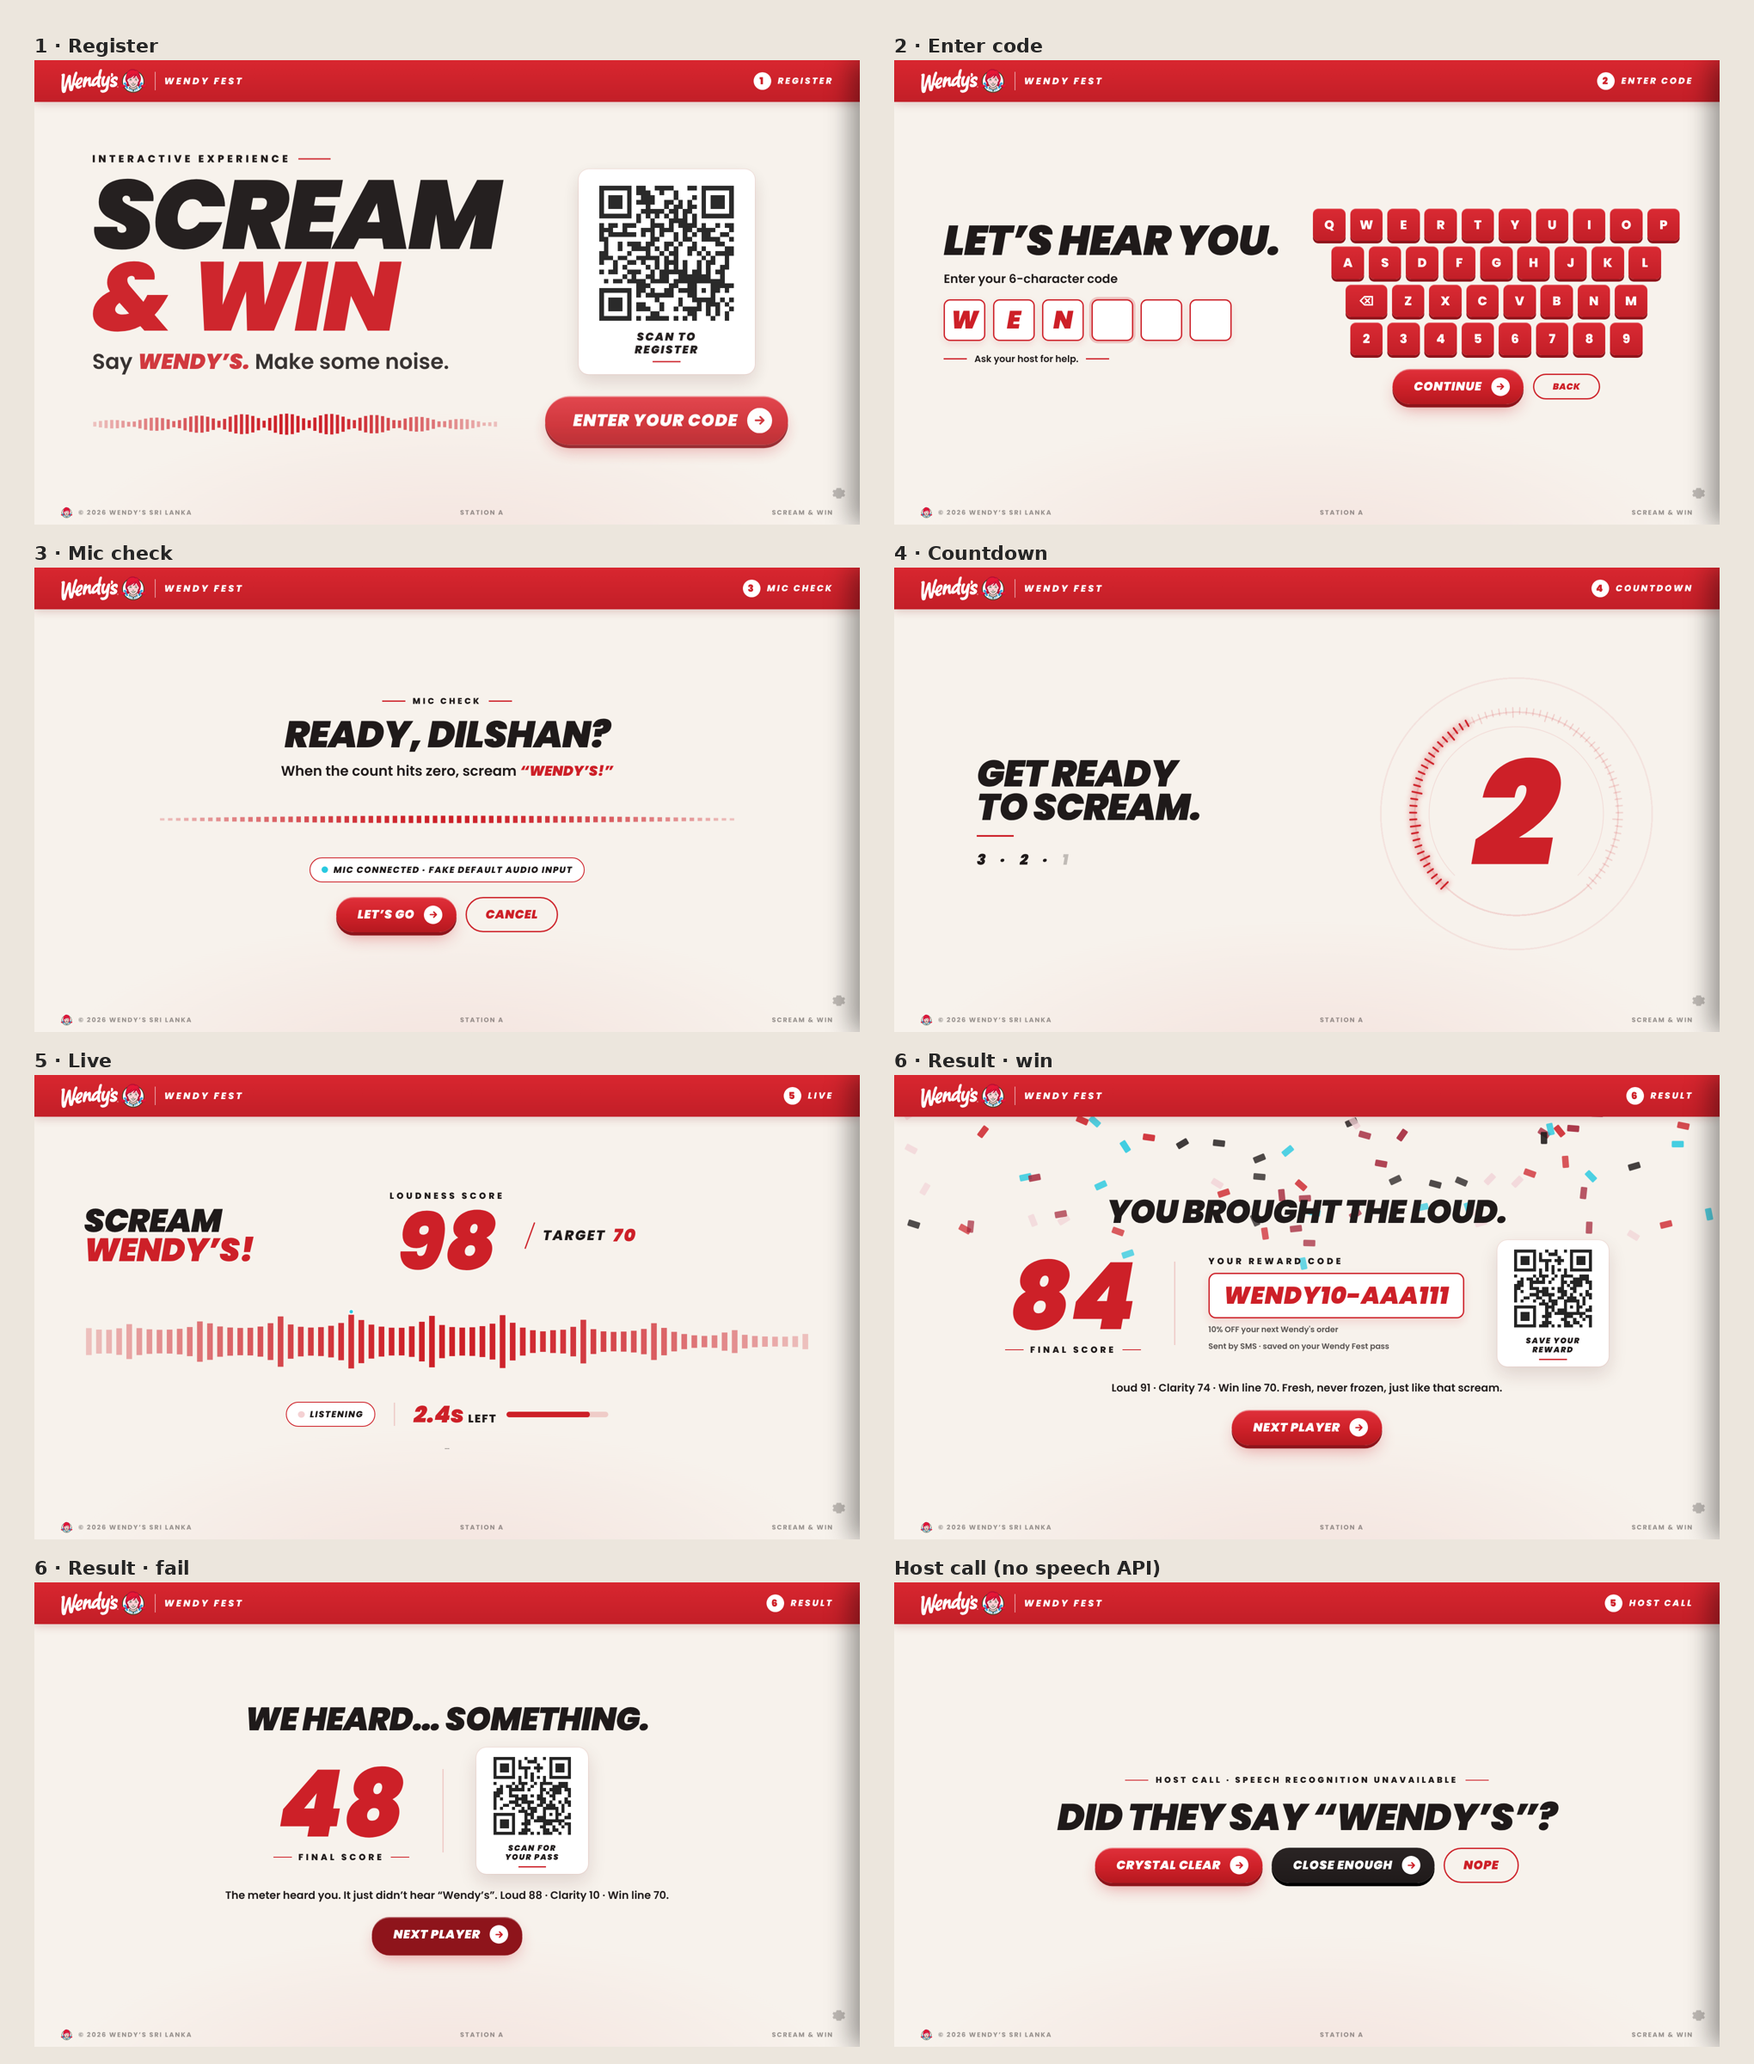
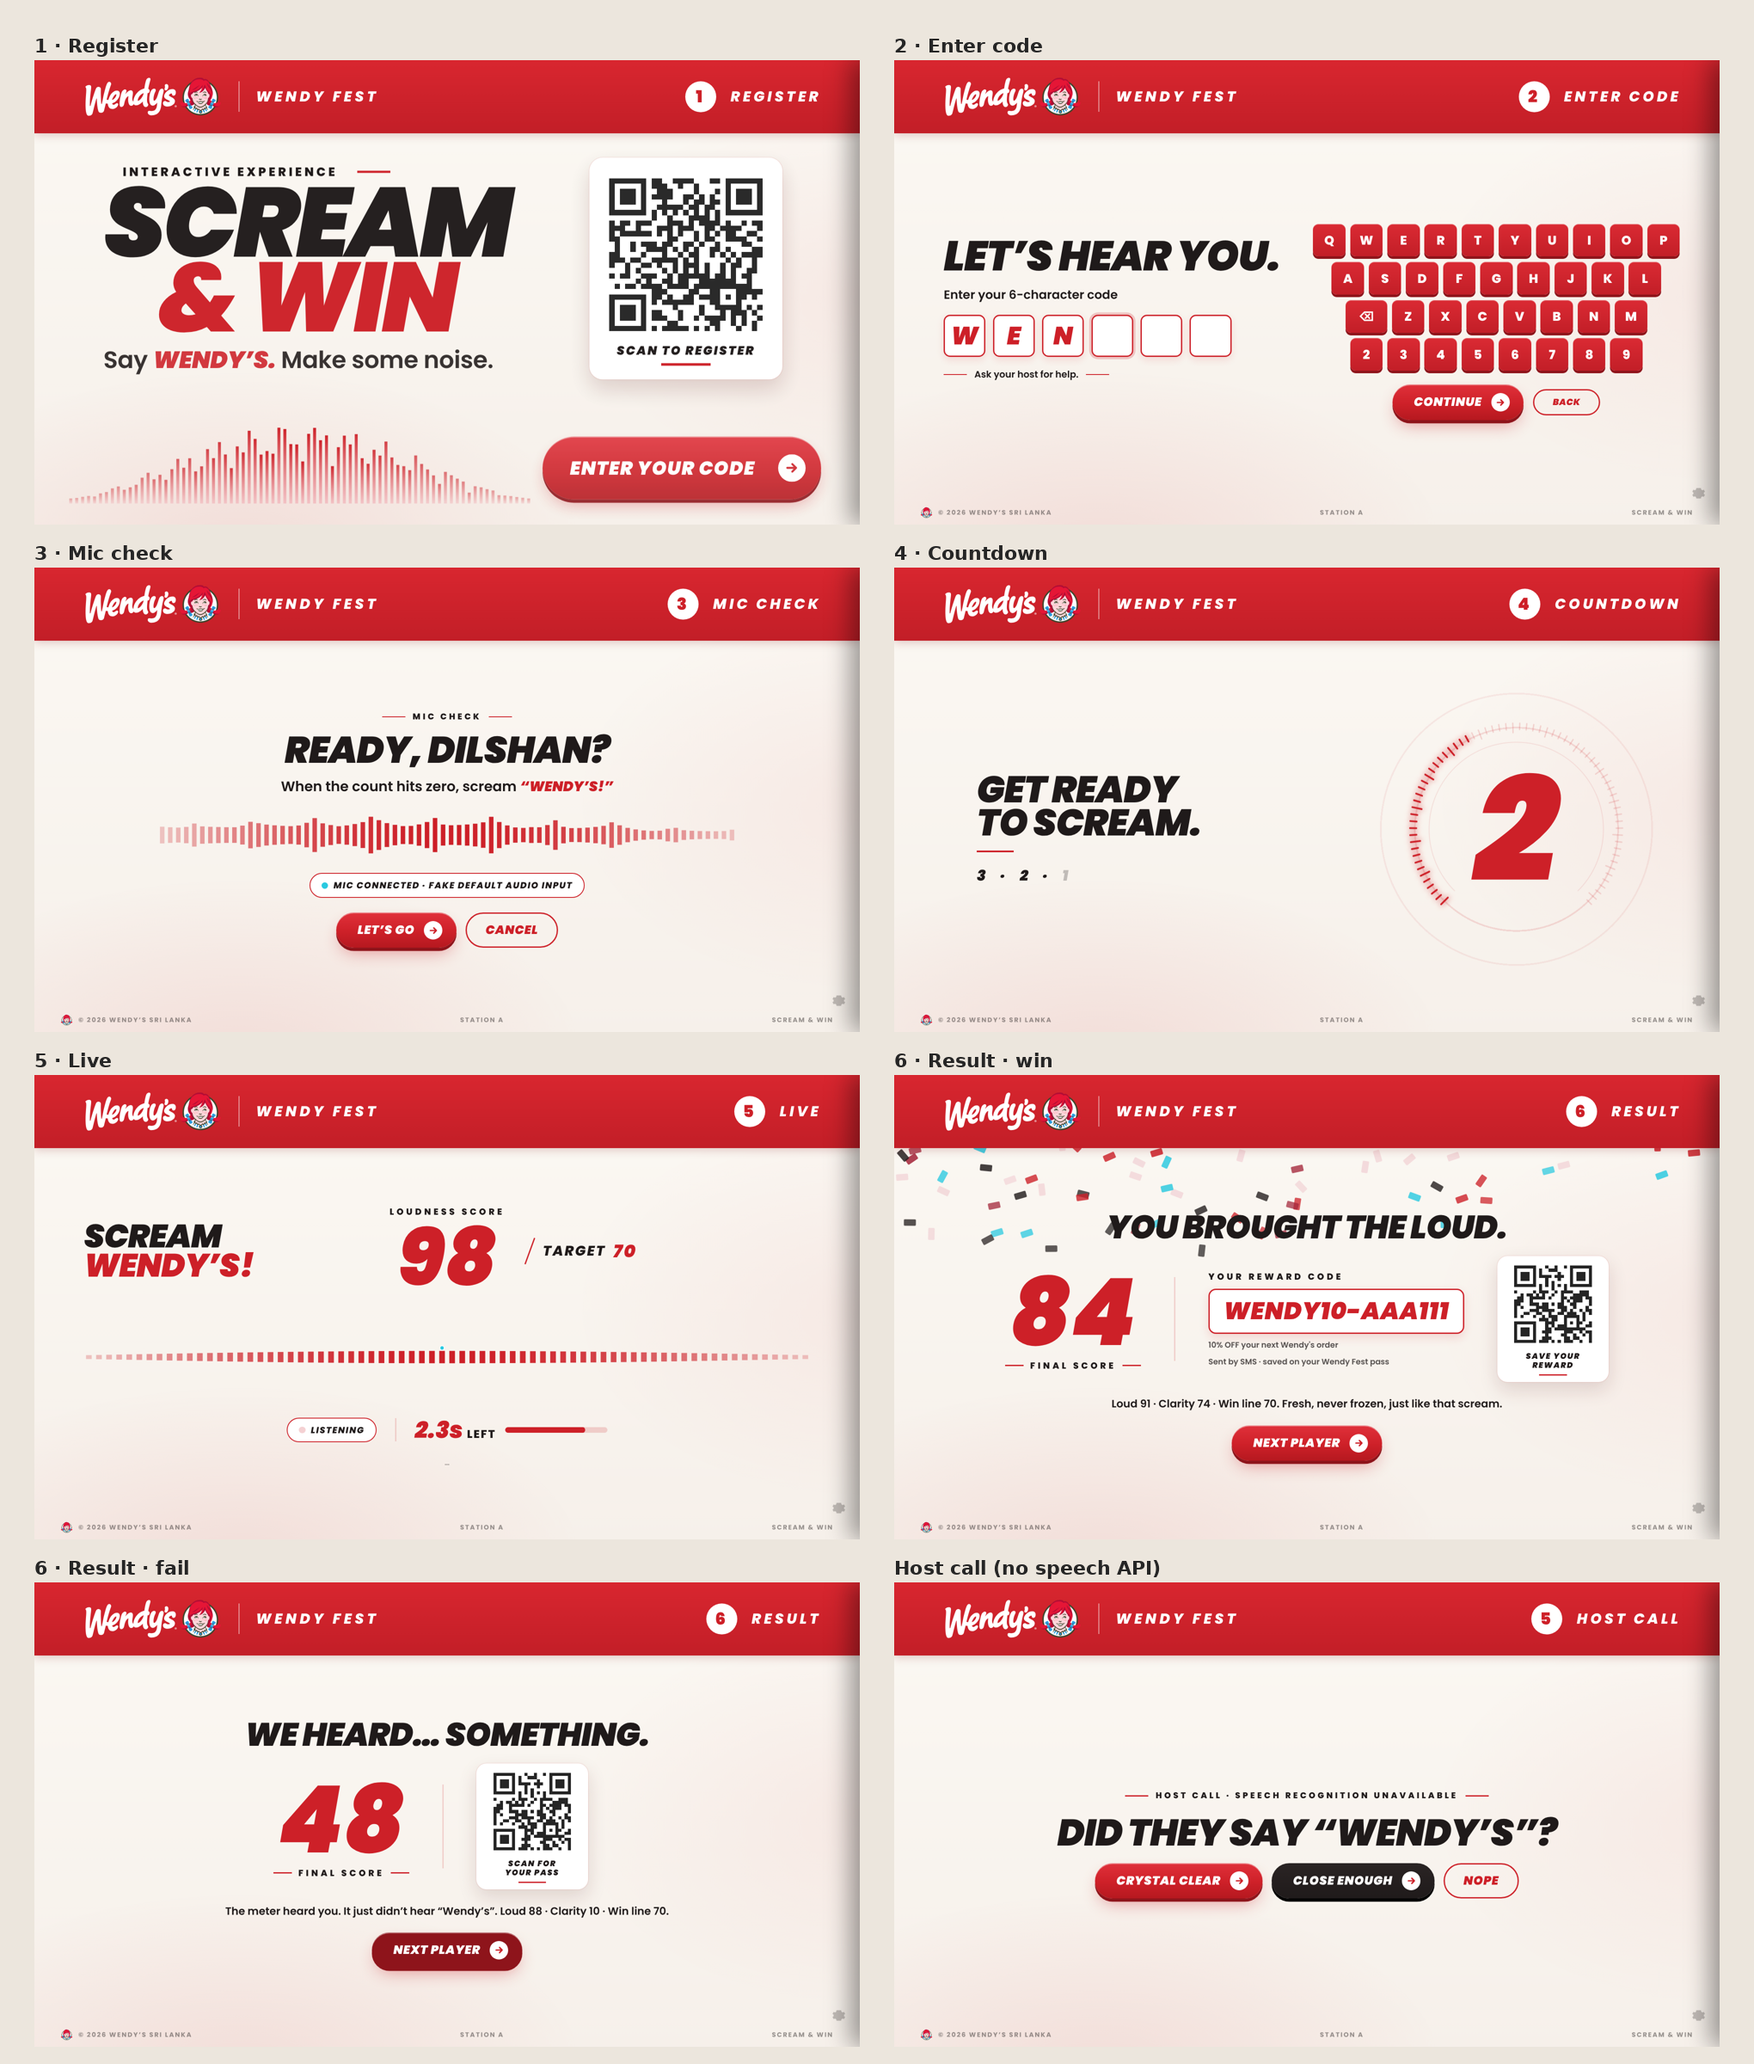
Studio Cream: Register screen laid out on the reference grid, taller header, bar wave
Claude-Session: https://claude.ai/code/session_015MHPvZ3kkn8jw5YatKY7r4

diff --git a/public/kiosk/scream-cream.html b/public/kiosk/scream-cream.html
@@ -6,23 +6,23 @@
 <link rel="stylesheet" href="/css/brand.css">
 <style>
 /* ================= STUDIO CREAM · Scream & Win ================= */
-:root { --red:#CD2028; --red2:#DA2A33; --red-dark:#8E141B; --ink:#1F1A1A; --cream:#F7F2EC; --blush:#F2D4D7; --cyan:#29C9E0; --line:rgba(205,32,40,.18); }
+:root { --u:calc(100vw / 1495); --v:calc(100vh / 668); --red:#CD2028; --red2:#DA2A33; --red-dark:#8E141B; --ink:#1F1A1A; --cream:#F7F2EC; --blush:#F2D4D7; --cyan:#29C9E0; --line:rgba(205,32,40,.18); }
 html, body { height:100%; overflow:hidden; }
 body { margin:0; background:var(--cream); color:var(--ink); font-family:Poppins,'Noto Sans Sinhala','Noto Sans Tamil',system-ui,sans-serif; user-select:none; cursor:default; }
 .stage { position:relative; width:100vw; height:100vh; overflow:hidden; background:var(--cream); }
-.stage::before { content:""; position:absolute; inset:0; background:radial-gradient(70% 50% at 50% 110%, rgba(205,32,40,.08), transparent 70%); pointer-events:none; }
+.stage::before { content:""; position:absolute; inset:0; background:radial-gradient(60% 55% at 25% 105%, rgba(205,32,40,.09), transparent 70%), radial-gradient(50% 60% at 100% 50%, rgba(205,32,40,.05), transparent 70%), linear-gradient(180deg, #FBF8F3, #F6F0EA); pointer-events:none; }
 #field { display:none; }
 /* header bar */
-.hdr { position:absolute; top:0; left:0; right:0; height:9vh; background:linear-gradient(180deg,#D8262F,#C21E27); display:flex; align-items:center; justify-content:space-between; padding:0 3.2vw; z-index:5; box-shadow:0 .4vmin 2vmin rgba(120,0,10,.22); }
-.brand { display:flex; align-items:center; gap:1.8vmin; } .brand img { height:5.4vmin; width:auto; } .brand i { width:.2vmin; height:4vmin; background:rgba(255,255,255,.55); }
-.brand b { font:italic 700 2vmin/1 Poppins, sans-serif; letter-spacing:.22em; text-transform:uppercase; color:#fff; }
-.step { display:flex; align-items:center; gap:1.4vmin; font:italic 800 1.9vmin/1 Poppins, sans-serif; letter-spacing:.2em; text-transform:uppercase; color:#fff; }
-.step i { width:3.8vmin; height:3.8vmin; border-radius:50%; background:#fff; color:var(--red); display:grid; place-items:center; font:900 2.1vmin/1 Poppins, sans-serif; font-style:normal; }
+.hdr { position:absolute; top:0; left:0; right:0; height:calc(105 * var(--v)); background:linear-gradient(180deg,#D8262F,#C21E27); display:flex; align-items:center; justify-content:space-between; padding:0 calc(70 * var(--u)) 0 calc(90 * var(--u)); z-index:5; box-shadow:0 .4vmin 2vmin rgba(120,0,10,.22); }
+.brand { display:flex; align-items:center; gap:calc(30 * var(--u)); } .brand img { height:calc(58 * var(--v)); width:auto; } .brand i { width:.2vmin; height:calc(44 * var(--v)); background:rgba(255,255,255,.6); }
+.brand b { font:italic 800 calc(26 * var(--u))/1 Poppins, sans-serif; letter-spacing:.22em; text-transform:uppercase; color:#fff; }
+.step { display:flex; align-items:center; gap:calc(26 * var(--u)); font:italic 800 calc(26 * var(--u))/1 Poppins, sans-serif; letter-spacing:.2em; text-transform:uppercase; color:#fff; }
+.step i { width:calc(56 * var(--u)); height:calc(56 * var(--u)); border-radius:50%; background:#fff; color:var(--red); display:grid; place-items:center; font:900 calc(30 * var(--u))/1 Poppins, sans-serif; font-style:normal; }
 .foot { position:absolute; left:0; right:0; bottom:0; z-index:5; display:flex; justify-content:space-between; align-items:center; padding:1.4vmin 3.2vw; font-size:1.4vmin; letter-spacing:.16em; text-transform:uppercase; font-weight:700; color:rgba(31,26,26,.45); }
 .foot .c { display:flex; align-items:center; gap:1.2vmin; } .foot .c img { height:2.4vmin; }
 .gear { position:absolute; bottom:5.2vmin; right:3vmin; width:3vmin; height:3vmin; opacity:.25; cursor:pointer; z-index:60; } .gear:hover { opacity:.7; }
 /* screens */
-.screen { position:absolute; left:0; right:0; top:9vh; bottom:0; z-index:4; display:none; padding:4vh 6vw 7vh; align-content:center; justify-items:center; text-align:center; }
+.screen { position:absolute; left:0; right:0; top:calc(105 * var(--v)); bottom:0; z-index:4; display:none; padding:4vh 6vw 7vh; align-content:center; justify-items:center; text-align:center; }
 .screen.on { display:grid; }
 .display { font-weight:900; font-style:italic; text-transform:uppercase; letter-spacing:-.02em; line-height:.9; color:var(--ink); }
 .h1 { font-size:13vmin; } .h2 { font-size:8vmin; } .h3 { font-size:5.4vmin; }
@@ -51,17 +51,20 @@ body { margin:0; background:var(--cream); color:var(--ink); font-family:Poppins,
 .help::before, .help::after { content:""; width:5vmin; height:.25vmin; background:var(--red); }
 .help i { display:none; }
 .vr { width:.25vmin; height:5vmin; background:var(--line); }
-/* idle */
-.idle.on { display:grid; grid-template-columns:1.25fr 1fr; align-items:center; gap:4vw; text-align:left; justify-items:start; padding-left:7vw; padding-right:7vw; }
-.idle .left { display:grid; gap:0; justify-items:start; width:100%; }
-.idle .eyebrow { justify-content:flex-start; font-size:2.2vmin; letter-spacing:.3em; } .idle .eyebrow::before { display:none; } .idle .eyebrow::after { width:7vmin; }
-.idle .h1 { font-size:21vmin; line-height:.84; letter-spacing:-.03em; margin-top:1.6vh; }
-.idle .h1 .l1, .idle .h1 .l2 { display:block; } .idle .h1 .amp { color:var(--red); margin-right:.2em; }
-.idle .sub { font-size:4.6vmin; margin-top:1.6vh; }
-.idle canvas.wave { width:100%; height:16vmin; margin-top:2.4vh; }
-.idle .right { display:grid; gap:4.5vh; justify-items:center; justify-self:center; }
-.idle .qrcard { width:38vmin; padding:2.6vmin; } .idle .qrcard img { width:31vmin; height:31vmin; } .idle .qrcard b { font-size:2.4vmin; }
-.idle .btn { height:10.5vmin; font-size:3.6vmin; padding:0 3.4vmin 0 6vmin; } .idle .btn::after { width:5.4vmin; height:5.4vmin; }
+/* idle · laid out on the reference banner grid */
+.idle.on { display:block; padding:0; top:0; }
+.idle .left { position:absolute; left:calc(125 * var(--u)); top:calc(148 * var(--v)); display:grid; gap:0; justify-items:start; }
+.idle .eyebrow { justify-content:flex-start; font-size:calc(22 * var(--u)); letter-spacing:.22em; margin-left:calc(35 * var(--u)); } .idle .eyebrow::before { display:none; } .idle .eyebrow::after { width:calc(60 * var(--u)); height:calc(3 * var(--v)); margin-left:calc(22 * var(--u)); }
+.idle .h1 { font-size:calc(178 * var(--u)); line-height:.76; letter-spacing:-.035em; margin-top:calc(6 * var(--v)); }
+.idle .h1 .l1, .idle .h1 .l2 { display:block; } .idle .h1 .amp { color:var(--red); margin-right:.12em; }
+.idle .sub { font-size:calc(43 * var(--u)); font-weight:600; margin-top:calc(10 * var(--v)); letter-spacing:-.01em; }
+.idle canvas.wave { position:absolute; left:calc(60 * var(--u)); top:calc(520 * var(--v)); width:calc(840 * var(--u)); height:calc(118 * var(--v)); }
+.idle .qrcard { position:absolute; left:calc(1005 * var(--u)); top:calc(140 * var(--v)); width:calc(350 * var(--u)); padding:calc(22 * var(--v)) calc(20 * var(--u)) calc(20 * var(--v)); border-radius:calc(24 * var(--u)); gap:calc(10 * var(--v)); box-shadow:0 calc(14 * var(--v)) calc(40 * var(--u)) rgba(80,20,20,.16), 0 0 0 .15vmin rgba(205,32,40,.08); }
+.idle .qrcard img { width:calc(296 * var(--u)); height:calc(296 * var(--u)); } .idle .qrcard b { font-size:calc(22 * var(--u)); letter-spacing:.12em; white-space:nowrap; } .idle .qrcard b::after { width:calc(90 * var(--u)); height:calc(4 * var(--v)); margin-top:calc(8 * var(--v)); }
+.stage:has(#s-idle.on) .foot, .stage:has(#s-idle.on) .gear { display:none; }
+.idle .cta-wrap { position:absolute; left:calc(920 * var(--u)); top:calc(540 * var(--v)); }
+.idle .btn { width:calc(505 * var(--u)); height:calc(90 * var(--v)); font-size:calc(34 * var(--u)); white-space:nowrap; padding:0 calc(28 * var(--u)) 0 calc(50 * var(--u)); gap:calc(30 * var(--u)); justify-content:space-between; }
+.idle .btn::after { width:calc(50 * var(--u)); height:calc(50 * var(--u)); }
 /* code */
 .codegrid { display:grid; grid-template-columns:1fr auto; gap:4vw; align-items:center; width:100%; text-align:left; }
 .codegrid .l { display:grid; gap:2.4vmin; justify-items:start; }
@@ -137,8 +140,8 @@ canvas.wave { width:70vw; height:12vmin; display:block; }
 @keyframes rise { from { transform:translateY(2vmin); opacity:0 } to { transform:none; opacity:1 } }
 @media (orientation:portrait) {
   .screen { padding:4vh 6vw 10vh; }
-  .idle.on, .codegrid, .cdgrid, .result, .scream-grid .top { grid-template-columns:1fr; justify-items:center; text-align:center; }
-  .idle .left { justify-items:center; } .idle .eyebrow { justify-content:center; } .codegrid .l, .cdgrid .l { justify-items:center; }
+  .codegrid, .cdgrid, .result, .scream-grid .top { grid-template-columns:1fr; justify-items:center; text-align:center; }
+  .codegrid .l, .cdgrid .l { justify-items:center; }
   .result .vr { display:none; } .target { justify-self:center; }
 }
 </style>
@@ -161,12 +164,10 @@ canvas.wave { width:70vw; height:12vmin; display:block; }
       <div class="eyebrow rise">Interactive experience</div>
       <h1 class="display h1 rise-2"><span class="l1">Scream</span><span class="l2"><span class="amp">&amp;</span><span class="red">Win</span></span></h1>
       <div class="sub rise-3">Say <b>WENDY’S.</b> Make some noise.</div>
-      <canvas class="wave" id="wave-idle"></canvas>
     </div>
-    <div class="right">
-      <div class="card qrcard rise-2"><img id="qr-reg" alt="QR"><b>Scan to<br>register</b></div>
-      <div class="rise-3"><button class="btn" id="start">Enter your code</button></div>
-    </div>
+    <canvas class="wave" id="wave-idle"></canvas>
+    <div class="card qrcard rise-2"><img id="qr-reg" alt="QR"><b>Scan to register</b></div>
+    <div class="cta-wrap rise-3"><button class="btn" id="start">Enter your code</button></div>
   </section>
 
   <!-- CODE -->
@@ -323,6 +324,7 @@ canvas.wave { width:70vw; height:12vmin; display:block; }
 
   // ---------- waveform ----------
   function drawWave(c, mirror, marker) {
+    if (c.id === "wave-idle") return drawHill(c);
     if (!c._sized) sizeCanvas(c);
     const ctx = c.getContext("2d"), W = c.width, H = c.height; ctx.clearRect(0, 0, W, H);
     const n = 72, gap = W / n; let maxH = 0, maxX = 0;
@@ -337,6 +339,20 @@ canvas.wave { width:70vw; height:12vmin; display:block; }
       if (h > maxH) { maxH = h; maxX = x + gap * .28; }
     }
     if (marker) { ctx.fillStyle = "#29C9E0"; ctx.beginPath(); ctx.arc(maxX, (H - maxH) / 2 - 7 * fd, 5 * fd, 0, 7); ctx.fill(); ctx.strokeStyle = "#fff"; ctx.lineWidth = 2 * fd; ctx.stroke(); }
+  }
+
+  function drawHill(c) {
+    if (!c._sized) sizeCanvas(c);
+    const ctx = c.getContext("2d"), W = c.width, H = c.height; ctx.clearRect(0, 0, W, H);
+    const n = 78, gap = W / n, t = performance.now();
+    if (analyser && fbuf) analyser.getByteFrequencyData(fbuf);
+    for (let i = 0; i < n; i++) {
+      const u = (i + .5) / n, env = Math.pow(Math.sin(u * Math.PI), 1.6);
+      let v = analyser && fbuf ? Math.max(.12, fbuf[Math.floor(i / n * fbuf.length * .35)] / 255) : .3 + Math.abs(Math.sin(i * .55 + t * .003)) * .4 + Math.abs(Math.sin(i * 1.9 - t * .002)) * .3;
+      const h = Math.max(3 * fd, (.06 + .94 * env * Math.min(1, v)) * H), x = i * gap + gap * .3;
+      const g = ctx.createLinearGradient(0, H - h, 0, H); g.addColorStop(0, `rgba(205,32,40,${(.35 + .65 * env).toFixed(2)})`); g.addColorStop(1, `rgba(242,180,186,${(.3 + .4 * env).toFixed(2)})`);
+      ctx.fillStyle = g; ctx.fillRect(x, H - h, gap * .5, h);
+    }
   }
 
   // ---------- rings ----------
